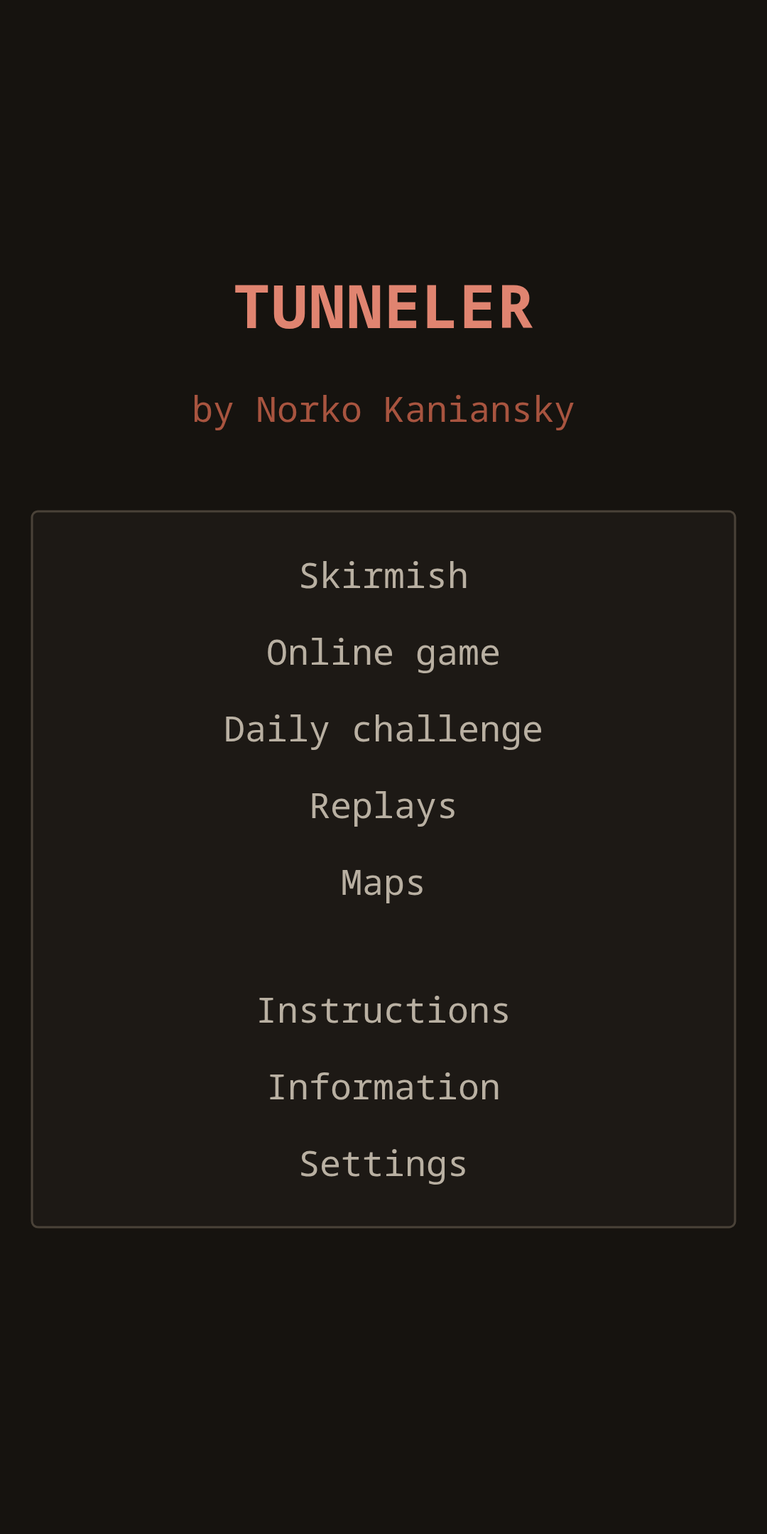
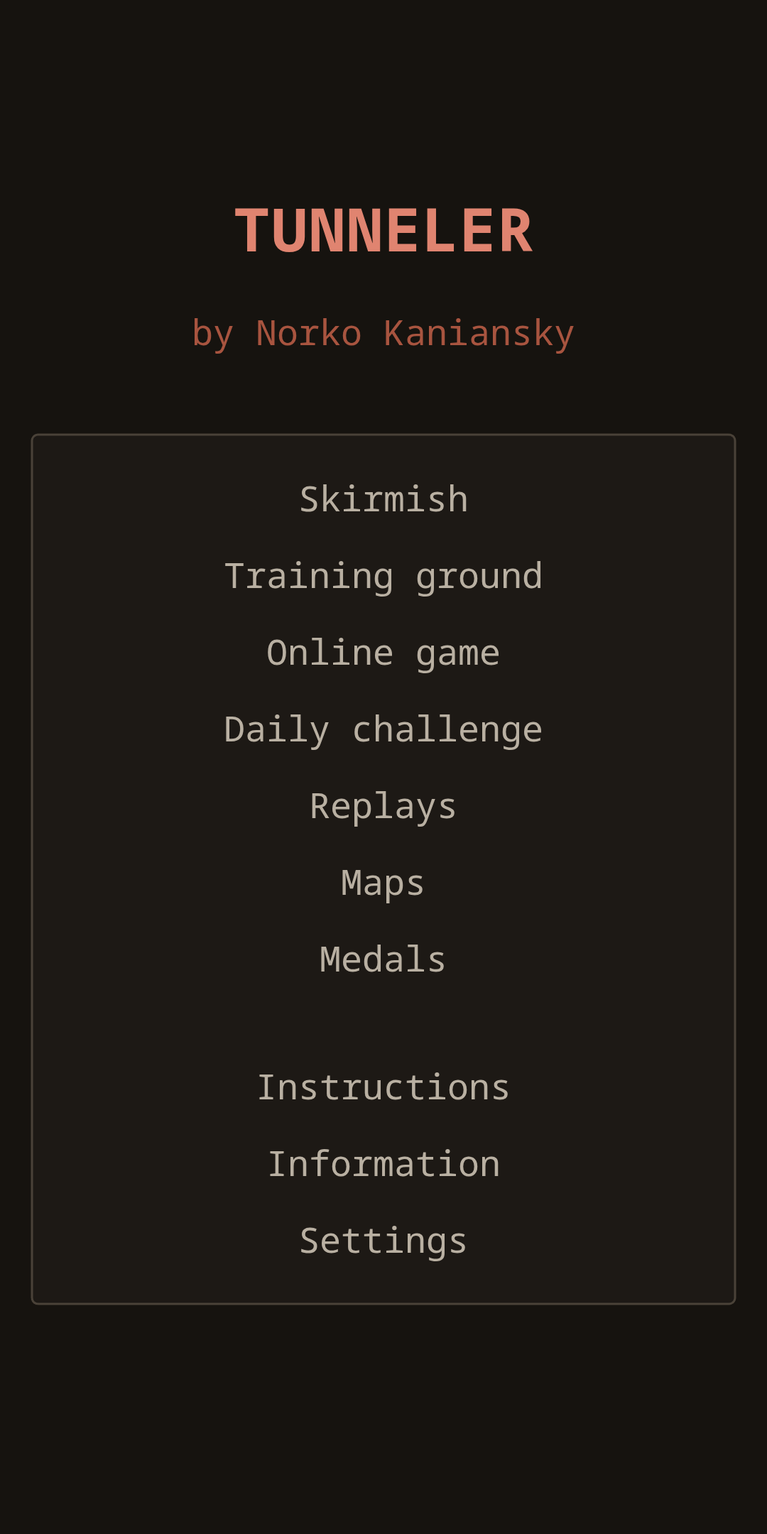
Play Store listing for 1.4: descriptions in 5 languages, new screenshots (training ground, medals)
The full descriptions describe 1.4 (training ground, medals, the map of the week, generated
maps with water, Show map, 3D); screenshots 2 and 8 are now the training ground and the
medals (were the skirmish's settings and a replay). play-screenshots.js: a request that
loses its kept-alive connection while a match is recorded is sent again.

diff --git a/tools/play-screenshots.js b/tools/play-screenshots.js
@@ -1,9 +1,10 @@
 // The Google Play screenshots (docs/play-store/screenshots/): the same 8 screens on a phone held upright
 // (360 x 720 at 3x = 1080 x 2160) and on 7" / 10" tablets held sideways (960 x 600 / 1280 x 800 at 2x =
 // 1920 x 1200 / 2560 x 1600), graphics modern, touch:
-//   1 the main menu, 2 the skirmish's settings, 3 a battle (your own view, the touch controls), 4 four tanks
-//   (everyone's views), 5 an online game's lobby (quick play, chat), 6 the daily challenge's leaderboard, 7 the
-//   map editor, 8 a replay (a leaderboard entry's, everyone's views).
+//   1 the main menu (a new player's: the training ground chosen), 2 the training ground (a step's hint over the game),
+//   3 a battle (your own view, the touch controls), 4 four tanks (everyone's views), 5 an online game's lobby (quick
+//   play, chat), 6 the daily challenge's leaderboard, 7 the map editor, 8 the medals (1.4: 2 and 8 were the skirmish's
+//   settings and a replay).
 //   npm run build && node tools/play-screenshots.js [out dir] [phone,tablet7,tablet10]
 // Runs its own server (accounts off). It first fills today's leaderboard with bot-played results (real replays,
 // checked by the server: 6 a minute from one address, so about two minutes). Needs playwright-core (not a
@@ -49,8 +50,11 @@ async function fillBoard() {
   for (const [name, level, seed] of PLAYERS) {
     const body = zlib.gzipSync(Buffer.from(JSON.stringify(record(level, seed))));
     for (;;) {
+      // (a connection kept alive across the match's recording - which blocks this process, the server's too - may be gone:
+      // again)
       const res = await fetch(B + "/api/challenge/" + day + "?cid=" + cidOf(seed) + "&name=" + encodeURIComponent(name),
-        { method: "POST", body, headers: { "Content-Type": "application/octet-stream" } });
+        { method: "POST", body, headers: { "Content-Type": "application/octet-stream" } }).catch(() => ({ status: 429, retry: true }));
+      if (res.retry) { await sleep(500); continue; }
       if (res.status !== 429) { console.log("board:", name, res.status); break; }
       await sleep(10000);                                       // (6 a minute: wait)
     }
@@ -122,11 +126,12 @@ function drawMap() {
       // 1 the main menu
       let p = await page("/");
       await sleep(2000); await shot(p, "1-menu"); await close(p);
-      // 2 the skirmish's settings: you and a teammate against two computer tanks, gold rush
-      const S = (kind, team) => ({ kind, team });
-      p = await page("/#cpu", { "tunneler.cpu.slots": JSON.stringify([S("you", 1), S("hard", 2), S("normal", 1), S("hard", 2),
-        S("none", 5), S("none", 6), S("none", 7), S("none", 8)]), "tunneler.cpu.view": "team", "tunneler.cpu.time": "3", "tunneler.levels": "2" });
-      await sleep(2000); await shot(p, "2-skirmish"); await close(p);
+      // 2 the training ground: out of the base, the next step's hint over the game
+      p = await page("/training");
+      await tap(p);
+      await until(p, () => window.tunnelerEngine && tunnelerEngine().screen === "play");
+      await hold(p, ["KeyS"], 3500); await hold(p, ["KeyD"], 1500);
+      await sleep(1200); await shot(p, "2-training"); await close(p);
       // 3 a battle: your own view, the touch controls
       p = await page("/skirmish?mode=cpu&slots=" + encodeURIComponent("0:you:1,1:hard:2") + "&size=small&view=self");
       await tap(p);
@@ -167,14 +172,12 @@ function drawMap() {
       await until(p, () => window.tunnelerMapEditor && tunnelerMapEditor());
       await p.evaluate(drawMap);
       await sleep(2000); await shot(p, "7-map-editor"); await close(p);
-      // 8 a replay: a leaderboard entry's match, everyone's views, a bit into it
-      p = await page("/replay/" + replayId + "?challenge=" + day);
-      await until(p, () => window.tunnelerReplay && tunnelerReplay().watching);
-      await p.keyboard.press("Equal"); await p.keyboard.press("Equal");
-      if (dev !== "phone") await p.keyboard.press("Digit1");    // (everyone's views; a phone follows one tank)
-      await until(p, () => tunnelerReplay().steps > 700, 60000);
-      await p.keyboard.press("Space");                            // (paused)
-      await sleep(1500); await shot(p, "8-replay"); await close(p);
+      // 8 the medals: a few earned, the second chosen (how it was earned, when)
+      p = await page("/", { "tunneler.trained": "1", "tunneler.medals": JSON.stringify({ training: day, first: day, five: day, "challenge": day, "mode.ctf": day, maker: day }) });
+      await until(p, () => window.tunnelerHomeUI && tunnelerHomeUI() && tunnelerHomeUI().spec);
+      await p.evaluate(() => { const u = tunnelerHomeUI(); u.sel = u.spec.items.findIndex(i => i.key === "medals"); u.draw(); });
+      await p.keyboard.press("Enter"); await sleep(600); await p.keyboard.press("ArrowDown");
+      await sleep(1500); await shot(p, "8-medals"); await close(p);
     }
   } finally { console.log("errors", JSON.stringify(errs)); await b.close(); srv.close(); process.exit(0); }
 })();

diff --git a/docs/play-store/listing.md b/docs/play-store/listing.md
@@ -8,7 +8,7 @@ Limits: app name 30 characters, short description 80, full description 4000 (pla
 breaks). The counts below are Unicode characters, line breaks included, of the text inside each block -
 checked with Python's `len()` (see the end of this file).
 
-The text describes version 1.0.0 as it is on a phone: no split screen and no second player on one device
+The text describes version 1.4 as it is on a phone: no split screen and no second player on one device
 (phones and tablets hide them), so neither is mentioned. Up to its version 6.0.1 the game was called "Tunneler Online"
 (app id `com.kaniansky.TunnelerOnline`, never uploaded to Play). Game mode names, "Skirmish", "Replays", difficulty levels etc. use the game's own translations
 (`src/lang/<code>/main.js`).
@@ -29,12 +29,15 @@ Tunneler
 The 1991 DOS tank duel, rebuilt: dig tunnels and hunt tanks, online or vs AI.
 ```
 
-**Full description** (3187 / 4000)
+**Full description** (3965 / 4000)
 
 ```text
 Tunneler brings back TUNNELER, the 1991 DOS game by Geoffrey Silverton - rebuilt from its decompiled source code so that it plays exactly like the original, and extended with computer opponents, teams, game modes, online games, a daily challenge and your own maps.
 
 Two tanks under the ground. Dig through the dirt, find the enemy and shoot it before your energy runs out. Your base recharges your energy and repairs your shield. Every world is new, and every tunnel is one somebody dug.
+
+TRAINING GROUND
+New to the game? A short first match teaches the rules step by step: drive out of your base, shoot the dirt away, refuel at home, find the enemy tank and destroy it - with a hint for every step.
 
 FAITHFUL TO THE ORIGINAL
 Movement, digging, shots, explosions, energy, shield, sound and the world generator follow the original routine by routine. An automated test runs the original program next to this one and compares every frame.
@@ -45,6 +48,8 @@ SKIRMISH
 • Map size, rounds to win, round time limit, friendly fire, line of sight
 • See only your own view, your team's views or everyone's
 • A random world every round, or one of your own maps
+• Ten kinds of generated worlds - caves, rivers, islands, a labyrinth... - with water, sand or grass
+• Hold SCORE for the map: what you or your team have seen, or the whole world
 
 8 GAME MODES
 Besides the classic last tank standing: gold rush, infection, survival, king of the hill, shrinking world, capture the flag, base siege and deathmatch. The computer tanks play every mode too.
@@ -58,16 +63,19 @@ ONLINE GAMES
 • Play on the public server or run your own - the server is free too
 
 DAILY CHALLENGE
-Every day a new skirmish, the same for everyone: the same world, mode and computer tanks. Send your result - the server plays your match again to check it - and climb the day's leaderboard. Watch the best matches, and play any of the last 30 days again for practice.
+Every day a new skirmish, the same for everyone: the same world, mode and computer tanks. Send your result - the server plays your match again to check it - and climb the day's leaderboard. Watch the best matches, and play any of the last 30 days again for practice. On Sundays it is played on the map of the week from the gallery.
 
 YOUR OWN MAPS
-Paint a world of rock, dirt and tunnels and place up to 8 bases - one finger paints, two move and zoom. Play it in a skirmish or an online game, or send it to a friend as a link or a file.
+Paint a world of rock, dirt and tunnels and place up to 8 bases - one finger paints, two move and zoom. Play it in a skirmish or an online game, or send it to a friend as a link or a file. Add water and sand or grass ground, and publish your map in the gallery.
 
 REPLAYS
 Every match you play or watch is kept on your phone. Watch it again from any tank's view or on the live map, pause it, speed it up to 8x, see its statistics, or send it to a friend as a link or a file.
 
+MEDALS
+25 to earn: a first victory, a flawless win, 5 kills in one match, the daily challenge seven days in a row, a win in every game mode and more. With an account they follow you to every device.
+
 TWO LOOKS
-Modern graphics with lit tunnels, textured dirt, sparks and a smooth camera - or the original DOS look with its VGA font, one switch away. Sound: the original PC speaker, realistic, cartoony or real recordings.
+Modern graphics with lit tunnels, textured dirt, sparks and a smooth camera - or the original DOS look with its VGA font, one switch away. Sound: the original PC speaker, realistic, cartoony or real recordings. With modern graphics the world can even stand up in 3D.
 
 MADE FOR PHONES
 An on-screen joystick and fire button (three sizes, a left-handed layout), menus laid out for a phone held upright, game controller support. In English, Slovak, Czech, Ukrainian and Russian.
@@ -94,12 +102,15 @@ Tunneler
 Tanková klasika z DOSu (1991): kop tunely a lov tanky online aj proti počítaču.
 ```
 
-**Full description** (3147 / 4000)
+**Full description** (3904 / 4000)
 
 ```text
 Tunneler vracia hru TUNNELER pre DOS od Geoffreyho Silvertona z roku 1991 – prestavanú z dekompilovaného zdrojového kódu tak, aby sa hrala presne ako originál, a rozšírenú o počítačových súperov, tímy, herné režimy, hru online, dennú výzvu a vlastné mapy.
 
 Dva tanky pod zemou. Prekop sa hlinou, nájdi nepriateľa a zostreľ ho skôr, ako ti dôjde energia. Vlastná základňa ti dobije energiu a opraví štít. Každý svet je nový a každý tunel niekto vykopal.
+
+CVIČISKO
+V hre ste noví? Krátky prvý zápas vás krok za krokom naučí pravidlá: vyjdite zo základne, rozstreľte hlinu, doplňte energiu doma, nájdite nepriateľský tank a zničte ho – s radou ku každému kroku.
 
 VERNÁ ORIGINÁLU
 Pohyb, kopanie, strely, výbuchy, energia, štít, zvuk aj generátor sveta sledujú originál procedúru po procedúre. Automatický test spúšťa pôvodný program vedľa tohto a porovnáva každý snímok.
@@ -110,6 +121,8 @@ POTÝČKA
 • Veľkosť mapy, kolá na výhru, čas kola, priateľská paľba, dohľad
 • Vidíš len svoj pohľad, pohľady svojho tímu alebo všetkých
 • Každé kolo náhodný svet alebo tvoja vlastná mapa
+• Desať druhov generovaných svetov – jaskyne, rieky, ostrovy, labyrint... – s vodou, pieskom či trávou
+• Podržte SKÓRE a uvidíte mapu: čo ste videli vy alebo váš tím, či celý svet
 
 8 HERNÝCH REŽIMOV
 Okrem klasiky, kde vyhráva posledný tank: zlatá horúčka, nákaza, prežitie, kráľ kopca, zmenšujúci sa svet, ukradni vlajku, obliehanie základní a zápas na smrť. Počítačové tanky hrajú každý režim.
@@ -123,16 +136,19 @@ HRA ONLINE
 • Hraj na verejnom serveri alebo na vlastnom – server je tiež zadarmo
 
 DENNÁ VÝZVA
-Každý deň nová potýčka, pre všetkých rovnaká: rovnaký svet, režim aj počítačové tanky. Pošli svoj výsledok – server tvoj zápas prehrá znova a overí – a prebojuj sa v dennom rebríčku. Pozri si najlepšie zápasy a ktorýkoľvek z posledných 30 dní si zahraj znova ako tréning.
+Každý deň nová potýčka, pre všetkých rovnaká: rovnaký svet, režim aj počítačové tanky. Pošli svoj výsledok – server tvoj zápas prehrá znova a overí – a prebojuj sa v dennom rebríčku. Pozri si najlepšie zápasy a ktorýkoľvek z posledných 30 dní si zahraj znova ako tréning. V nedeľu sa hrá na mape týždňa z galérie.
 
 VLASTNÉ MAPY
-Nakresli svet zo skál, hliny a tunelov a rozmiestni až 8 základní – jedným prstom kreslíš, dvoma posúvaš a približuješ. Hraj ho v potýčke alebo v hre online, alebo ho pošli kamarátovi ako odkaz či súbor.
+Nakresli svet zo skál, hliny a tunelov a rozmiestni až 8 základní – jedným prstom kreslíš, dvoma posúvaš a približuješ. Hraj ho v potýčke alebo v hre online, alebo ho pošli kamarátovi ako odkaz či súbor. Pridajte vodu a piesočný či trávnatý povrch a zverejnite mapu v galérii.
 
 ZÁZNAMY
 Každý zápas, ktorý hráš alebo sleduješ, sa uloží v telefóne. Pozri si ho znova z pohľadu ktoréhokoľvek tanku alebo na živej mape, zastav ho, zrýchli až 8×, pozri si štatistiky alebo ho pošli kamarátovi ako odkaz či súbor.
 
+MEDAILY
+25 na získanie: prvé víťazstvo, výhra bez straty tanku, 5 zničených tankov v jednom zápase, denná výzva 7 dní po sebe, výhra v každom hernom režime a ďalšie. S účtom vás sprevádzajú na každom zariadení.
+
 DVA VZHĽADY
-Moderná grafika s osvetlenými tunelmi, hlinou s textúrou, iskrami a plynulou kamerou – alebo pôvodný vzhľad DOSu s písmom VGA – stačí jeden prepínač. Zvuk: pôvodný PC speaker, realistický, rozprávkový alebo nahratý.
+Moderná grafika s osvetlenými tunelmi, hlinou s textúrou, iskrami a plynulou kamerou – alebo pôvodný vzhľad DOSu s písmom VGA – stačí jeden prepínač. Zvuk: pôvodný PC speaker, realistický, rozprávkový alebo nahratý. V modernej grafike sa svet môže postaviť aj do 3D.
 
 PRE TELEFÓNY
 Joystick a tlačidlo streľby na obrazovke (tri veľkosti, rozloženie pre ľavákov), menu prispôsobené telefónu na výšku, podpora herných ovládačov. Po slovensky, česky, anglicky, ukrajinsky a rusky.
@@ -159,12 +175,15 @@ Tunneler
 Tanková klasika z DOSu (1991): kopej tunely a lov tanky online i proti počítači.
 ```
 
-**Full description** (3113 / 4000)
+**Full description** (3862 / 4000)
 
 ```text
 Tunneler vrací hru TUNNELER pro DOS od Geoffreyho Silvertona z roku 1991 – přestavěnou z dekompilovaného zdrojového kódu tak, aby se hrála přesně jako originál, a rozšířenou o počítačové soupeře, týmy, herní režimy, hru online, denní výzvu a vlastní mapy.
 
 Dva tanky pod zemí. Prokopej se hlínou, najdi nepřítele a sestřel ho dřív, než ti dojde energie. Vlastní základna ti dobije energii a opraví štít. Každý svět je nový a každý tunel někdo vykopal.
+
+CVIČIŠTĚ
+Jste ve hře noví? Krátký první zápas vás krok za krokem naučí pravidla: vyjeďte ze základny, rozstřílejte hlínu, doplňte energii doma, najděte nepřátelský tank a zničte ho – s radou ke každému kroku.
 
 VĚRNÁ ORIGINÁLU
 Pohyb, kopání, střely, výbuchy, energie, štít, zvuk i generátor světa sledují originál proceduru po proceduře. Automatický test spouští původní program vedle tohoto a porovnává každý snímek.
@@ -175,6 +194,8 @@ POTYČKA
 • Velikost mapy, kola k výhře, čas kola, přátelská palba, dohled
 • Vidíš jen svůj pohled, pohledy svého týmu, nebo všech
 • Každé kolo náhodný svět, nebo tvoje vlastní mapa
+• Deset druhů generovaných světů – jeskyně, řeky, ostrovy, labyrint... – s vodou, pískem či trávou
+• Podržte SKÓRE a uvidíte mapu: co jste viděli vy nebo váš tým, či celý svět
 
 8 HERNÍCH REŽIMŮ
 Kromě klasiky, kde vyhrává poslední tank: zlatá horečka, nákaza, přežití, král kopce, zmenšující se svět, ukradni vlajku, obléhání základen a zápas na smrt. Počítačové tanky hrají každý režim.
@@ -188,16 +209,19 @@ HRA ONLINE
 • Hraj na veřejném serveru, nebo na vlastním – server je také zdarma
 
 DENNÍ VÝZVA
-Každý den nová potyčka, pro všechny stejná: stejný svět, režim i počítačové tanky. Pošli svůj výsledek – server tvůj zápas přehraje znovu a ověří – a probojuj se v denním žebříčku. Podívej se na nejlepší zápasy a kterýkoli z posledních 30 dní si zahraj znovu jako trénink.
+Každý den nová potyčka, pro všechny stejná: stejný svět, režim i počítačové tanky. Pošli svůj výsledek – server tvůj zápas přehraje znovu a ověří – a probojuj se v denním žebříčku. Podívej se na nejlepší zápasy a kterýkoli z posledních 30 dní si zahraj znovu jako trénink. V neděli se hraje na mapě týdne z galerie.
 
 VLASTNÍ MAPY
-Nakresli svět ze skal, hlíny a tunelů a rozmísti až 8 základen – jedním prstem kreslíš, dvěma posouváš a přibližuješ. Hraj ho v potyčce nebo ve hře online, nebo ho pošli kamarádovi jako odkaz či soubor.
+Nakresli svět ze skal, hlíny a tunelů a rozmísti až 8 základen – jedním prstem kreslíš, dvěma posouváš a přibližuješ. Hraj ho v potyčce nebo ve hře online, nebo ho pošli kamarádovi jako odkaz či soubor. Přidejte vodu a písčitý či travnatý povrch a zveřejněte mapu v galerii.
 
 ZÁZNAMY
 Každý zápas, který hraješ nebo sleduješ, se uloží v telefonu. Podívej se na něj znovu z pohledu kteréhokoli tanku nebo na živé mapě, zastav ho, zrychli až 8×, prohlédni si statistiky, nebo ho pošli kamarádovi jako odkaz či soubor.
 
+MEDAILE
+25 k získání: první vítězství, výhra bez ztráty tanku, 5 zničených tanků v jednom zápase, denní výzva 7 dní po sobě, výhra v každém herním režimu a další. S účtem vás provázejí na každém zařízení.
+
 DVA VZHLEDY
-Moderní grafika s osvětlenými tunely, hlínou s texturou, jiskrami a plynulou kamerou – nebo původní vzhled DOSu s písmem VGA – stačí jeden přepínač. Zvuk: původní PC speaker, realistický, pohádkový nebo nahraný.
+Moderní grafika s osvětlenými tunely, hlínou s texturou, jiskrami a plynulou kamerou – nebo původní vzhled DOSu s písmem VGA – stačí jeden přepínač. Zvuk: původní PC speaker, realistický, pohádkový nebo nahraný. V moderní grafice se svět může postavit i do 3D.
 
 PRO TELEFONY
 Joystick a tlačítko střelby na obrazovce (tři velikosti, rozložení pro leváky), menu uzpůsobená telefonu na výšku, podpora herních ovladačů. Česky, slovensky, anglicky, ukrajinsky a rusky.
@@ -224,12 +248,15 @@ Tunneler
 Танкова класика з DOS (1991): копай тунелі й полюй на танки онлайн і проти ШІ.
 ```
 
-**Full description** (3251 / 4000)
+**Full description** (3916 / 4000)
 
 ```text
 Tunneler повертає гру TUNNELER для DOS, яку Geoffrey Silverton створив 1991 року, – відтворену з декомпільованого вихідного коду так, щоб грати точнісінько як оригінал, і доповнену комп'ютерними суперниками, командами, режимами гри, грою онлайн, викликом дня та власними мапами.
 
 Два танки під землею. Прокопуйся крізь ґрунт, знайди ворога й підстрель його, поки в тебе не скінчилася енергія. Власна база поповнює енергію і лагодить щит. Кожен світ новий, і кожен тунель хтось викопав.
+
+ПОЛІГОН
+Уперше в грі? Короткий перший матч крок за кроком навчить правил: виїдьте з бази, розстріляйте ґрунт, поповніть енергію вдома, знайдіть ворожий танк і знищте його – з підказкою до кожного кроку.
 
 ВІРНА ОРИГІНАЛУ
 Рух, копання, постріли, вибухи, енергія, щит, звук і генератор світу повторюють оригінал процедура за процедурою. Автоматичний тест запускає оригінальну програму поруч із цією і порівнює кожен кадр.
@@ -240,6 +267,7 @@ Tunneler повертає гру TUNNELER для DOS, яку Geoffrey Silverton 
 • Розмір мапи, раунди до перемоги, час раунду, вогонь по своїх, видимість
 • Бачиш лише свій екран, екрани своєї команди або всіх
 • Щораунду випадковий світ або твоя власна мапа
+• Десять видів згенерованих світів – печери, річки, острови, лабіринт... – з водою, піском чи травою
 
 8 РЕЖИМІВ ГРИ
 Окрім класики, де перемагає останній танк: золота лихоманка, інфекція, виживання, цар гори, світ стискається, захоплення прапора, облога баз і бій на смерть. Комп'ютерні танки грають у кожному режимі.
@@ -253,16 +281,19 @@ Tunneler повертає гру TUNNELER для DOS, яку Geoffrey Silverton 
 • Грай на публічному сервері або на власному – сервер теж безкоштовний
 
 ВИКЛИК ДНЯ
-Щодня нова сутичка, однакова для всіх: той самий світ, режим і комп'ютерні танки. Надішли свій результат – сервер ще раз програє твій матч і перевірить його – і пробийся в денній таблиці лідерів. Дивись найкращі матчі й зіграй будь-який із останніх 30 днів знову для тренування.
+Щодня нова сутичка, однакова для всіх: той самий світ, режим і комп'ютерні танки. Надішли свій результат – сервер ще раз програє твій матч і перевірить його – і пробийся в денній таблиці лідерів. Дивись найкращі матчі й зіграй будь-який із останніх 30 днів знову для тренування. У неділю він грається на мапі тижня з галереї.
 
 ВЛАСНІ МАПИ
-Намалюй світ зі скель, ґрунту й тунелів і розстав до 8 баз – одним пальцем малюєш, двома пересуваєш і масштабуєш. Грай на ньому в сутичці чи в грі онлайн або надішли другові посиланням чи файлом.
+Намалюй світ зі скель, ґрунту й тунелів і розстав до 8 баз – одним пальцем малюєш, двома пересуваєш і масштабуєш. Грай на ньому в сутичці чи в грі онлайн або надішли другові посиланням чи файлом. Додайте воду й піщану чи трав'янисту поверхню та опублікуйте мапу в галереї.
 
 ЗАПИСИ
 Кожен матч, який ти граєш або дивишся, зберігається в телефоні. Переглянь його знову очима будь-якого танка або на живій мапі, постав на паузу, пришвидш до 8×, подивись статистику або надішли другові посиланням чи файлом.
 
+МЕДАЛІ
+25 медалей: перша перемога, перемога без втрати танка, 5 знищених танків за один матч, виклик дня 7 днів поспіль, перемога в кожному режимі гри та інші. З обліковим записом вони з вами на кожному пристрої.
+
 ДВА ВИГЛЯДИ
-Сучасна графіка з освітленими тунелями, текстурованим ґрунтом, іскрами й плавною камерою – або оригінальний вигляд DOS зі шрифтом VGA – досить одного перемикача. Звук: оригінальний PC speaker, реалістичний, мультяшний або записаний.
+Сучасна графіка з освітленими тунелями, текстурованим ґрунтом, іскрами й плавною камерою – або оригінальний вигляд DOS зі шрифтом VGA – досить одного перемикача. Звук: оригінальний PC speaker, реалістичний, мультяшний або записаний. А сучасна графіка вміє й 3D.
 
 ДЛЯ ТЕЛЕФОНІВ
 Джойстик і кнопка вогню на екрані (три розміри, розкладка для шульг), меню для телефона у вертикальному положенні, підтримка геймпадів. Українською, англійською, словацькою, чеською і російською.
@@ -289,12 +320,15 @@ Tunneler
 Танковая классика DOS (1991): копай туннели и охоться на танки онлайн и с ИИ.
 ```
 
-**Full description** (3291 / 4000)
+**Full description** (3982 / 4000)
 
 ```text
 Tunneler возвращает игру TUNNELER для DOS, которую Geoffrey Silverton создал в 1991 году, – воссозданную по декомпилированному исходному коду так, чтобы играть в точности как оригинал, и дополненную компьютерными соперниками, командами, режимами игры, игрой онлайн, испытанием дня и своими картами.
 
 Два танка под землёй. Прокапывайся сквозь грунт, найди врага и подстрели его, пока у тебя не кончилась энергия. Своя база восполняет энергию и чинит щит. Каждый мир новый, и каждый туннель кто-то выкопал.
+
+ПОЛИГОН
+Впервые в игре? Короткий первый матч шаг за шагом научит правилам: выезжайте с базы, расстреляйте грунт, пополните энергию дома, найдите вражеский танк и уничтожьте его – с подсказкой к каждому шагу.
 
 ВЕРНАЯ ОРИГИНАЛУ
 Движение, копание, выстрелы, взрывы, энергия, щит, звук и генератор мира повторяют оригинал процедура за процедурой. Автоматический тест запускает оригинальную программу рядом с этой и сравнивает каждый кадр.
@@ -305,6 +339,7 @@ Tunneler возвращает игру TUNNELER для DOS, которую Geoff
 • Размер карты, раунды до победы, время раунда, огонь по своим, видимость
 • Видишь только свой экран, экраны своей команды или всех
 • Каждый раунд случайный мир или твоя собственная карта
+• Десять видов сгенерированных миров – пещеры, реки, острова, лабиринт... – с водой, песком или травой
 
 8 РЕЖИМОВ ИГРЫ
 Помимо классики, где побеждает последний танк: золотая лихорадка, заражение, выживание, царь горы, мир сжимается, захват флага, осада баз и бой насмерть. Компьютерные танки играют в каждом режиме.
@@ -318,16 +353,19 @@ Tunneler возвращает игру TUNNELER для DOS, которую Geoff
 • Играй на публичном сервере или на своём – сервер тоже бесплатный
 
 ИСПЫТАНИЕ ДНЯ
-Каждый день новая схватка, одна для всех: тот же мир, режим и компьютерные танки. Отправь свой результат – сервер ещё раз проиграет твой матч и проверит его – и пробейся в дневную таблицу лидеров. Смотри лучшие матчи и сыграй любой из последних 30 дней заново для тренировки.
+Каждый день новая схватка, одна для всех: тот же мир, режим и компьютерные танки. Отправь свой результат – сервер ещё раз проиграет твой матч и проверит его – и пробейся в дневную таблицу лидеров. Смотри лучшие матчи и сыграй любой из последних 30 дней заново для тренировки. По воскресеньям оно играется на карте недели из галереи.
 
 СВОИ КАРТЫ
-Нарисуй мир из скал, грунта и туннелей и расставь до 8 баз – одним пальцем рисуешь, двумя двигаешь и масштабируешь. Играй на нём в схватке или в игре онлайн или отправь другу ссылкой или файлом.
+Нарисуй мир из скал, грунта и туннелей и расставь до 8 баз – одним пальцем рисуешь, двумя двигаешь и масштабируешь. Играй на нём в схватке или в игре онлайн или отправь другу ссылкой или файлом. Добавьте воду и песчаную или травяную поверхность и опубликуйте карту в галерее.
 
 ЗАПИСИ
 Каждый матч, который ты играешь или смотришь, сохраняется в телефоне. Посмотри его снова глазами любого танка или на живой карте, поставь на паузу, ускорь до 8×, посмотри статистику или отправь другу ссылкой или файлом.
 
+МЕДАЛИ
+25 медалей: первая победа, победа без потери танка, 5 уничтоженных танков за один матч, испытание дня 7 дней подряд, победа в каждом режиме игры и другие. С учётной записью они с вами на каждом устройстве.
+
 ДВА ВИДА
-Современная графика с освещёнными туннелями, текстурным грунтом, искрами и плавной камерой – или оригинальный вид DOS со шрифтом VGA – достаточно одного переключателя. Звук: оригинальный PC speaker, реалистичный, мультяшный или записанный.
+Современная графика с освещёнными туннелями, текстурным грунтом, искрами и плавной камерой – или оригинальный вид DOS со шрифтом VGA – достаточно одного переключателя. Звук: оригинальный PC speaker, реалистичный, мультяшный или записанный. А современная графика умеет и 3D.
 
 ДЛЯ ТЕЛЕФОНОВ
 Джойстик и кнопка огня на экране (три размера, раскладка для левшей), меню для телефона в вертикальном положении, поддержка геймпадов. На русском, английском, словацком, чешском и украинском.

diff --git a/docs/play-store/README.md b/docs/play-store/README.md
@@ -14,9 +14,10 @@ Background: docs/ANDROID.md (build, signing, CI). Files in this folder:
 | `screenshots/tablet10-1..8-*.png` | 10" tablet screenshots, sideways, 2560 x 1600 |
 
 `node tools/play-screenshots.js` takes all of them from the current build (`npm run build` first; it runs its own
-server, modern graphics, a touch device): 1 the main menu, 2 the skirmish's settings, 3 a battle with the touch
-controls, 4 four tanks, 5 an online game's lobby (quick play), 6 the daily challenge's leaderboard, 7 the map
-editor, 8 a replay.
+server, modern graphics, a touch device): 1 the main menu, 2 the training ground (a step's hint over the game), 3 a
+battle with the touch controls, 4 four tanks, 5 an online game's lobby (quick play), 6 the daily challenge's
+leaderboard, 7 the map editor, 8 the medals. (1.4: 2 and 8 replaced the skirmish's settings and a replay - in Play
+Console delete those two and upload the new ones in their places.)
 
 ## Before you start
 
@@ -46,7 +47,7 @@ editor, 8 a replay.
    - App name, short description, full description: `listing.md` -> en.
    - App icon: `icon-512.png`.
    - Feature graphic: `feature-graphic.png`.
-   - Phone screenshots: `screenshots/phone-1-menu.png` ... `phone-8-replay.png` (2-8 allowed; order as numbered).
+   - Phone screenshots: `screenshots/phone-1-menu.png` ... `phone-8-medals.png` (2-8 allowed; order as numbered).
    - 7-inch / 10-inch tablet screenshots: `screenshots/tablet7-*.png` / `tablet10-*.png`.
    - Translations: "Manage translations" -> "Add your own translations" -> sk-SK, cs-CZ, uk-UA, ru-RU,
      paste from `listing.md` (the same graphics are used unless you upload localized ones).
